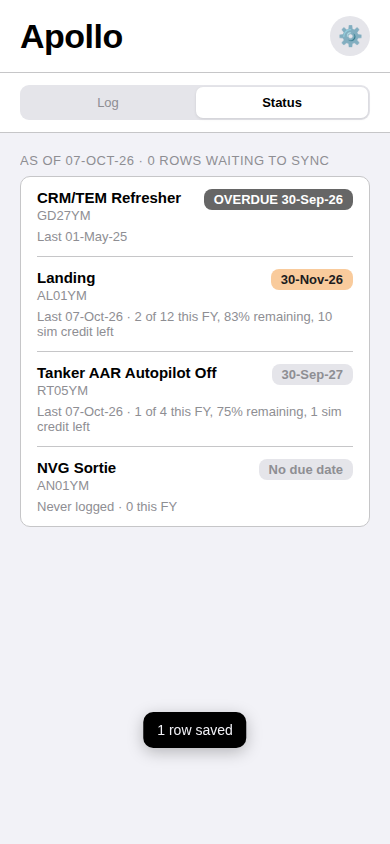
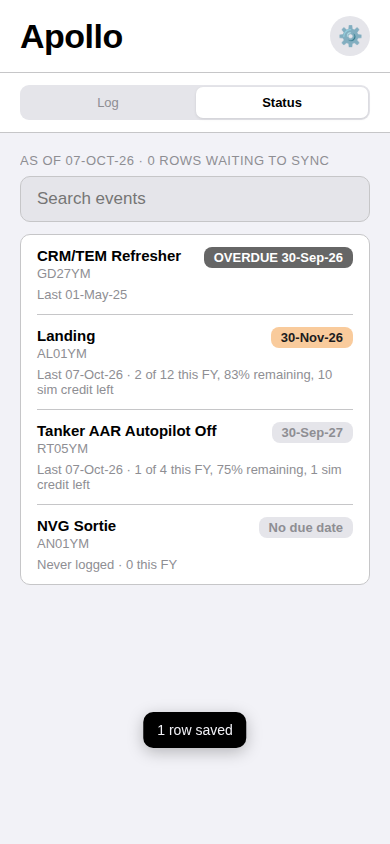
Status: search by Task Name or Task ID (#14)
A search field above the Status list narrows it with the same match as
the Log search, so "when did I last do X?" is one search away. Empty
state reads "No events match." Unit and browser tests cover it; the
guide's Status screenshot is refreshed. Version 2026.10.07.12.

Claude-Session: https://claude.ai/code/session_01UDrq9cWrJXfmfhJcy2TJsG

Changed region(s): [[0.0308, 0.1848, 0.9538, 0.6777]]

diff --git a/app/app.js b/app/app.js
@@ -10,7 +10,7 @@
  */
 'use strict';
 
-var APP_VERSION = '2026.10.07.11';
+var APP_VERSION = '2026.10.07.12';
 var STORAGE = { settings: 'apollo.settings', data: 'apollo.data', queue: 'apollo.queue' };
 
 // ---------------------------------------------------------------------------
@@ -94,6 +94,15 @@ function filterEvents(events, query) {
   if (!q) return events;
   return events.filter(function (e) {
     return String(e.id || '').toLowerCase().indexOf(q) !== -1 || String(e.name || '').toLowerCase().indexOf(q) !== -1;
+  });
+}
+
+/** Status search: the same match as the Log search, on summary rows keyed by header. */
+function filterSummary(summary, query) {
+  var q = String(query || '').trim().toLowerCase();
+  if (!q) return summary;
+  return summary.filter(function (r) {
+    return String(r['Task ID'] || '').toLowerCase().indexOf(q) !== -1 || String(r['Task Name'] || '').toLowerCase().indexOf(q) !== -1;
   });
 }
 
@@ -211,7 +220,7 @@ if (typeof document !== 'undefined') {
     if (!settings.theme) settings.theme = 'auto';
     var data = load(STORAGE.data, { ground: [], flying: [], summary: [], logCheck: [], asOf: '', lastSync: '' });
     var queue = load(STORAGE.queue, []);
-    var ui = { tab: 'log', mode: 'flight', query: '', counts: {}, syncing: false, lastError: '', settingsOpen: false };
+    var ui = { tab: 'log', mode: 'flight', query: '', statusQuery: '', counts: {}, syncing: false, lastError: '', settingsOpen: false };
     var toastTimer = null;
 
     // ---- theme ----
@@ -354,8 +363,13 @@ if (typeof document !== 'undefined') {
         list.appendChild(el('li', 'empty', 'No summary yet. Open Settings, enter the web app URL and token, then Sync now.'));
         return;
       }
+      var rows = filterSummary(sortSummary(data.summary), ui.statusQuery);
+      if (!rows.length) {
+        list.appendChild(el('li', 'empty', 'No events match.'));
+        return;
+      }
       var today = todayUtc();
-      sortSummary(data.summary).forEach(function (r) {
+      rows.forEach(function (r) {
         var band = dueBand(r, today);
         var li = el('li', 'item');
         var head = el('div', 'head');
@@ -524,6 +538,11 @@ if (typeof document !== 'undefined') {
       renderLog();
     });
 
+    $('status-search').addEventListener('input', function (e) {
+      ui.statusQuery = e.target.value;
+      renderStatus();
+    });
+
     $('events').addEventListener('click', function (e) {
       var b = e.target.closest('button[data-id]');
       if (!b) return;
@@ -644,6 +663,7 @@ if (typeof module !== 'undefined' && module.exports) {
     sortSummary: sortSummary,
     eventsForMode: eventsForMode,
     filterEvents: filterEvents,
+    filterSummary: filterSummary,
     groupEvents: groupEvents,
     buildRows: buildRows,
     pendingRows: pendingRows,

diff --git a/tests/browser/smoke.js b/tests/browser/smoke.js
@@ -90,6 +90,16 @@ async function main() {
     assert.deepEqual(dues, ['OVERDUE', 'OVERDUE', 'OVERDUE 30-Sep-26', 'No due date'], 'due badges in DD-Mmm-YY');
     await shot('status-before');
 
+    // Status search narrows by name or ID, and clears back to the full list.
+    await page.fill('#status-search', 'tanker');
+    assert.deepEqual(await page.locator('#summary .item .id').allTextContents(), ['RT05YM'], 'status search by name');
+    await page.fill('#status-search', 'gd27');
+    assert.deepEqual(await page.locator('#summary .item .id').allTextContents(), ['GD27YM'], 'status search by id');
+    await page.fill('#status-search', 'zzz');
+    assert.equal(await page.textContent('#summary .empty'), 'No events match.', 'status search empty state');
+    await page.fill('#status-search', '');
+    assert.equal(await page.locator('#summary .item').count(), 4, 'status search cleared');
+
     // Log a flight with two landings; the 0% NVG event is offered in Flight.
     await page.click('.seg-tabs button[data-tab="log"]');
     await page.click('.toggle-group button[data-mode="flight"]');

diff --git a/tests/app.test.js b/tests/app.test.js
@@ -86,6 +86,14 @@ test('filterEvents matches id or name, case-insensitive, trimmed', () => {
   assert.deepEqual(app.filterEvents(events, 'zzz'), []);
 });
 
+test('filterSummary matches Task ID or Task Name on summary rows, case-insensitive, trimmed', () => {
+  const summary = [{ 'Task ID': 'AL01YM', 'Task Name': 'Landing' }, { 'Task ID': 'GD27YM', 'Task Name': 'CRM/TEM Refresher' }];
+  assert.equal(app.filterSummary(summary, '').length, 2);
+  assert.deepEqual(app.filterSummary(summary, ' crm ').map((r) => r['Task ID']), ['GD27YM']);
+  assert.deepEqual(app.filterSummary(summary, 'al01').map((r) => r['Task ID']), ['AL01YM']);
+  assert.deepEqual(app.filterSummary(summary, 'zzz'), []);
+});
+
 test('groupEvents: by first two characters of the Task ID, groups in first-appearance order, config order inside', () => {
   const events = [
     { id: 'AH11YM' }, { id: 'AL01YM' }, { id: 'AP07YM' }, { id: 'AL15YM' }, { id: 'MB10YM' }, { id: 'AP53YM' }, { id: 'FLTMED' }, { id: ' al99ym ' },

diff --git a/app/sw.js b/app/sw.js
@@ -1,7 +1,7 @@
 /* Apollo service worker: caches the app shell so the app opens offline.
  * Bump VERSION on every change to any file in app/, or devices keep the old copy.
  * API calls go to another origin and are never intercepted. */
-var VERSION = 'apollo-2026.10.07.11';
+var VERSION = 'apollo-2026.10.07.12';
 var SHELL = ['./', './index.html', './app.js', './style.css', './manifest.webmanifest', './icon.svg', './icon-192.png', './icon-512.png'];
 
 self.addEventListener('install', function (event) {

diff --git a/app/index.html b/app/index.html
@@ -69,6 +69,7 @@
           <div id="status-head" class="section-title"></div>
           <div id="logcheck"></div>
           <div id="status-error"></div>
+          <input id="status-search" type="search" class="search" placeholder="Search events" autocomplete="off" aria-label="Search status">
           <ul id="summary" class="card list"></ul>
           <div class="panel-end"></div>
         </section>

diff --git a/CLAUDE.md b/CLAUDE.md
@@ -222,7 +222,7 @@ Every response is JSON. Apps Script cannot set HTTP status codes, so errors come
 **Design system.** The app follows the user's Show Time PWA (github.com/135crewdog/showtime), an iOS-style system: system font stack, antialiased; a white (dark: `#1c1c1e`) header with the 34px bold title on the left and a round 40px gear button on the right; an iOS segmented control under the header switching Log and Status, with swipe between the two panels (horizontal movement must dominate, 50px threshold, 0.3s slide); content in sections with 13px uppercase letter-spaced gray titles over rounded 10px cards with a 1px border; 17px inputs on a gray fill with 10px radius; full-width 12px-radius buttons; Settings as its own full screen with "Done" on the left and a centered title; a Light/Dark/Auto theme setting; the app is a 430px column centered on the page, so it stays narrow in a desktop browser, with the page behind it in the elevated color; Apple's gray palette for backgrounds, borders, fills and secondary text (`#f2f2f7`, `#ffffff`, `#c6c6c8`, `#8e8e93`, `#e5e5ea`; dark `#000000`, `#1c1c1e`, `#38383a`, `#98989d`, `#48484a`). Where Show Time uses iOS blue, Apollo uses the due-date palette: red `#EA9999` for primary buttons, orange `#F9CB9C` for the active kind and a picked stepper, yellow `#FFF2CC` and gray `#666666` where the bands already apply, with dark text on all of them. The Save bar is a fixed toolbar at the bottom of the Log panel, the one place Apollo departs from Show Time's in-flow buttons, because the event list is long. Every list row leads with the Task Name and puts the Task ID beneath it in gray, on Log and Status alike; search matches either. Every date a human reads in the app is `DD-Mmm-YY` (`07-Oct-26`): due dates, Last Accomplished, "As of", last sync, and the date field, which shows that label over the native picker while its value stays `YYYY-MM-DD`.
 
 - **Log:** pick Flight, Sim or Ground. Flight needs a mission number and date. Sim needs a date and writes `SIM` as the mission number. Ground needs a date only. Then a searchable list of events from the matching config tab, each with + and −, under small headings by RTM category (the first two characters of the Task ID; groups in the order they first appear in the config, events in config order within a group). Save writes one row per tap. In Sim, events with 0% sim credit are not offered. The date defaults to the Zulu date. Flight refuses a mission number of `SIM`. Changing the kind clears the counts.
-- **Status:** the summary, overdue first, then by due date, with its "as of" date, the number of rows waiting to sync, and the log check problems if there are any. Order within the list: Overdue rows, then `CHECK LABEL` rows, then rows with a due date ascending, then rows with no due date; ties keep config order. Each row shows the Task Name over the Task ID, the due date as `DD-Mmm-YY` with the same color bands as the sheet's Due Date column, Last Accomplished or "Never logged", and the volume line when the event has one.
+- **Status:** the summary, overdue first, then by due date, with its "as of" date, the number of rows waiting to sync, the log check problems if there are any, and a search field that narrows the list by Task Name or Task ID (the same match as the Log search), so "when did I last do X?" is one search away. Order within the list: Overdue rows, then `CHECK LABEL` rows, then rows with a due date ascending, then rows with no due date; ties keep config order. Each row shows the Task Name over the Task ID, the due date as `DD-Mmm-YY` with the same color bands as the sheet's Due Date column, Last Accomplished or "Never logged", and the volume line when the event has one.
 - **Settings:** its own screen, opened from the gear and closed with Done. Sections: Connection (web app URL, token, Show token, Save, Sync now, last sync and last error), Appearance (Theme: Light, Dark, Auto), Data (Clear local data, asks first; the workbook is never touched), Help (Setup guide, Send Feedback), and the version. The app opens on Settings until a URL and token are saved.
 
 **Sync.** Save puts the rows into the local queue as one batch with a fresh `batchId` and tries to sync at once. Sync sends queued batches in order with POST, then, if nothing was sent, refreshes with GET. It runs on load, after Save, when the browser comes back online, when the app becomes visible with rows waiting, and from Sync now. A network failure keeps the queue and says so; a `{ ok: false }` reply keeps the queue and shows the error. The payload from the last successful call is what Status shows.
